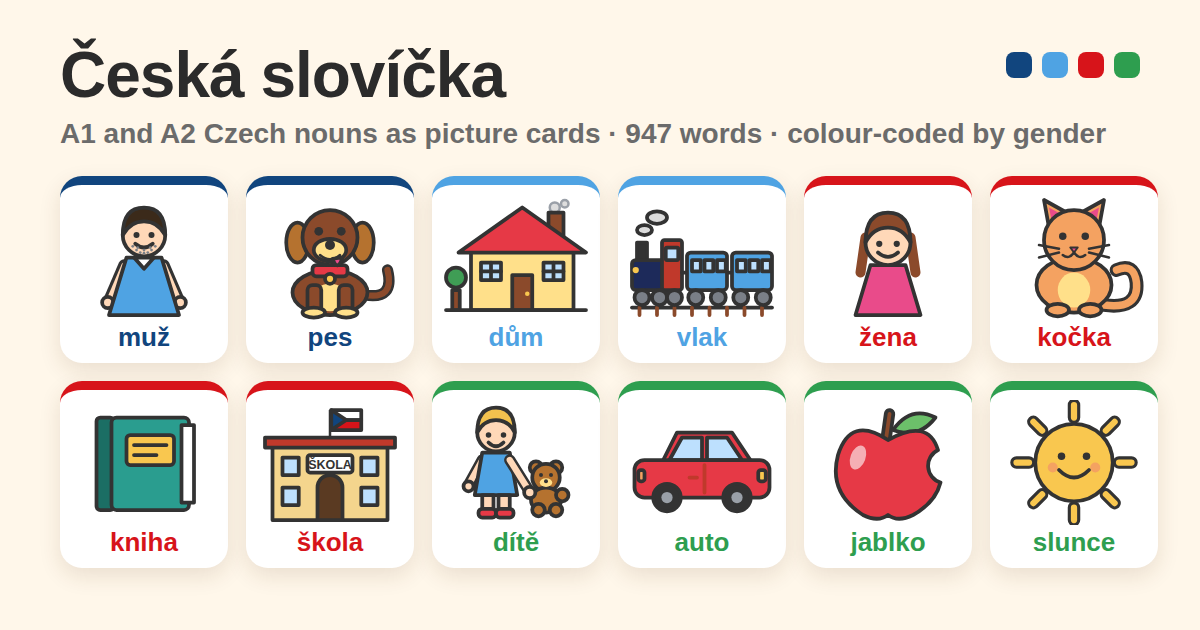
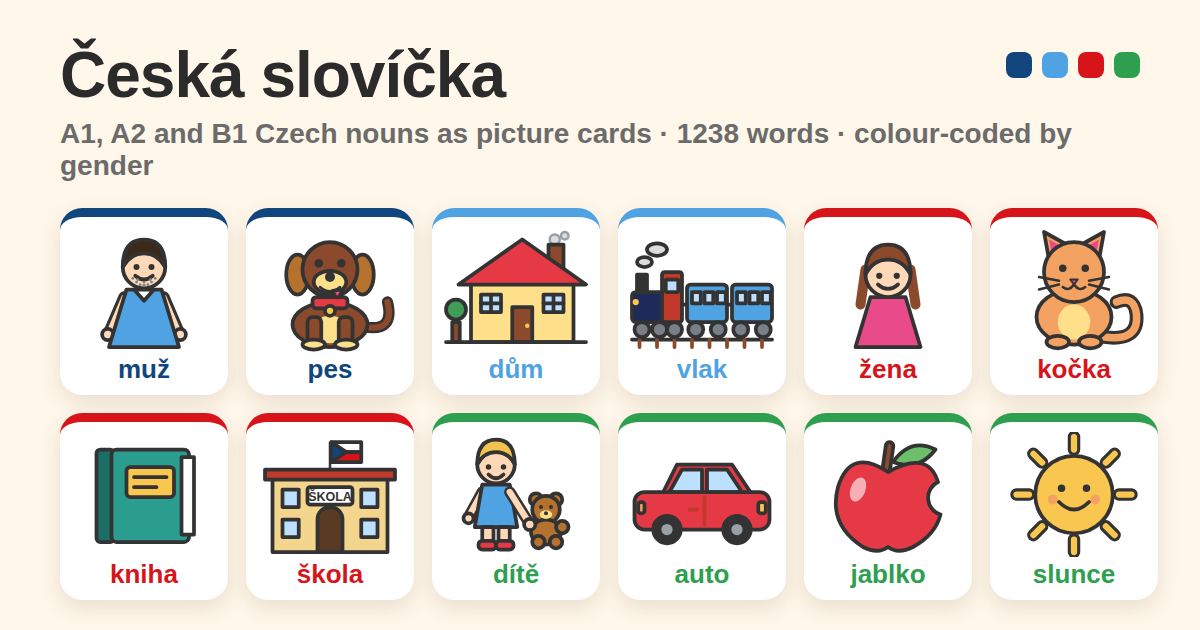
Link the B1 decks in behind the level filter
Adds a B1 pill next to A1, A2 and Vše. A1 stays the default; B1 and Vše
load the 17 B1 deck files on demand. The preview and descriptions now
count all 1,238 cards across A1, A2 and B1.

diff --git a/index.html b/index.html
@@ -4,7 +4,7 @@
 <meta charset="utf-8">
 <meta name="viewport" content="width=device-width, initial-scale=1">
 <title>Česká slovíčka – Czech flash cards</title>
-<meta name="description" content="A1 and A2 Czech nouns as child-friendly picture flash cards, Czech to English, colour-coded by gender (Ma, Mi, F, N).">
+<meta name="description" content="A1, A2 and B1 Czech nouns as child-friendly picture flash cards, Czech to English, colour-coded by gender (Ma, Mi, F, N).">
 <link rel="canonical" href="https://grammar.ilearnczech.com/nouns/">
 <link rel="icon" href="favicon.svg" type="image/svg+xml">
 <meta name="theme-color" content="#fff7ea">
@@ -13,14 +13,14 @@
 <meta property="og:locale" content="en">
 <meta property="og:url" content="https://grammar.ilearnczech.com/nouns/">
 <meta property="og:title" content="Česká slovíčka – Czech noun flash cards">
-<meta property="og:description" content="A1 and A2 Czech nouns as child-friendly picture flash cards, Czech to English, colour-coded by gender (Ma, Mi, F, N).">
+<meta property="og:description" content="A1, A2 and B1 Czech nouns as child-friendly picture flash cards, Czech to English, colour-coded by gender (Ma, Mi, F, N).">
 <meta property="og:image" content="https://grammar.ilearnczech.com/nouns/og.png">
 <meta property="og:image:width" content="1200">
 <meta property="og:image:height" content="630">
 <meta property="og:image:alt" content="Twelve Czech picture cards: muž, pes, dům, vlak, žena, kočka, kniha, škola, dítě, auto, jablko, slunce">
 <meta name="twitter:card" content="summary_large_image">
 <meta name="twitter:title" content="Česká slovíčka – Czech noun flash cards">
-<meta name="twitter:description" content="A1 and A2 Czech nouns as child-friendly picture flash cards, colour-coded by gender.">
+<meta name="twitter:description" content="A1, A2 and B1 Czech nouns as child-friendly picture flash cards, colour-coded by gender.">
 <meta name="twitter:image" content="https://grammar.ilearnczech.com/nouns/og.png">
 <style>
   :root {
@@ -169,6 +169,7 @@
     <span class="levels" role="group" aria-label="Level" id="levels">
       <button data-level="a1" aria-pressed="true">A1</button>
       <button data-level="a2" aria-pressed="false">A2</button>
+      <button data-level="b1" aria-pressed="false">B1</button>
       <button data-level="all" aria-pressed="false">Vše</button>
     </span>
     <button data-gender="all" aria-pressed="true">Vše</button>
@@ -186,7 +187,7 @@
 </header>
 <main id="deck"></main>
 <footer>
-  <span id="count"></span> nouns for A1 and A2 Czech &middot; colours follow the textbook convention (Ma dark blue, Mi light blue, F red, N green) &middot; pictures are inline SVG.<br>
+  <span id="count"></span> nouns for A1, A2 and B1 Czech &middot; colours follow the textbook convention (Ma dark blue, Mi light blue, F red, N green) &middot; pictures are inline SVG.<br>
   Part of the <a href="https://ilearnczech.com">iLearnCzech</a> family &middot; <a href="https://grammar.ilearnczech.com">Grammar reference</a> &middot; <a href="https://github.com/czech-grammar/nouns">GitHub</a>
 </footer>
 
@@ -265,25 +266,33 @@
   // e.g. ?gender=f&mode=hide-en#t-food
   const MODES = ['both', 'hide-en', 'hide-cs'];
   const GENDERS = ['all', 'ma', 'mi', 'f', 'n'];
-  const LEVELS = ['a1', 'a2', 'all'];
+  const LEVELS = ['a1', 'a2', 'b1', 'all'];
   const params = new URLSearchParams(location.search);
   let mode = MODES.includes(params.get('mode')) ? params.get('mode') : 'both';
   let gender = GENDERS.includes(params.get('gender')) ? params.get('gender') : 'all';
   let level = LEVELS.includes(params.get('level')) ? params.get('level') : 'a1';
 
-  // The A2 decks are loaded only when first needed, so the default A1 view stays light.
-  const A2_FILES = ["f-body", "f-clothes", "f-family-a", "f-family-b", "f-food", "f-home", "f-leisure", "f-nature", "f-school-a", "f-school-b", "f-shopping", "f-town", "m-clothes", "m-family-a", "m-home-a", "m-home-b", "m-leisure-people", "m-nature", "m-other", "m-people", "m-school", "m-town", "m-travel-body", "n-home", "n-leisure", "n-travel"];
-  let a2Loaded = false, a2Loading = null;
-  function loadA2() {
-    if (a2Loaded) return Promise.resolve();
-    if (a2Loading) return a2Loading;
-    a2Loading = Promise.all(A2_FILES.map(f => new Promise((ok, fail) => {
+  // Extra levels are loaded only when first needed, so the default A1 view stays light.
+  const EXTRA_FILES = {
+    a2: ["f-body", "f-clothes", "f-family-a", "f-family-b", "f-food", "f-home", "f-leisure", "f-nature", "f-school-a", "f-school-b", "f-shopping", "f-town", "m-clothes", "m-family-a", "m-home-a", "m-home-b", "m-leisure-people", "m-nature", "m-other", "m-people", "m-school", "m-town", "m-travel-body", "n-home", "n-leisure", "n-travel"],
+    b1: ["f-body", "f-home", "f-leisure", "f-nature", "f-school", "f-town", "m-body", "m-home", "m-leisure", "m-nature", "m-people", "m-school", "m-sport", "m-town", "n-body", "n-home", "n-leisure"],
+  };
+  const loaded = {}, loading = {};
+  function loadLevel(lv) {
+    if (loaded[lv]) return Promise.resolve();
+    if (loading[lv]) return loading[lv];
+    loading[lv] = Promise.all(EXTRA_FILES[lv].map(f => new Promise((ok, fail) => {
       const el = document.createElement('script');
-      el.src = 'words/a2/' + f + '.js';
+      el.src = 'words/' + lv + '/' + f + '.js';
       el.onload = ok; el.onerror = () => fail(f);
       document.head.appendChild(el);
-    }))).then(() => { a2Loaded = true; order = WORDS.map((_, i) => i).sort(byGender); });
-    return a2Loading;
+    }))).then(() => { loaded[lv] = true; order = WORDS.map((_, i) => i).sort(byGender); });
+    return loading[lv];
+  }
+  function loadFor(lv) {
+    if (lv === 'a1') return Promise.resolve();
+    if (lv === 'all') return Promise.all(Object.keys(EXTRA_FILES).map(loadLevel));
+    return loadLevel(lv);
   }
 
   function syncUrl() {
@@ -355,7 +364,7 @@
       level = l;
       document.querySelectorAll('#levels button').forEach(b => b.setAttribute('aria-pressed', String(b === btn)));
       syncUrl();
-      (level === 'a1' ? Promise.resolve() : loadA2()).then(render);
+      loadFor(level).then(render);
     });
   });
 
@@ -472,7 +481,7 @@
     render();
   });
 
-  (level === 'a1' ? Promise.resolve() : loadA2()).then(() => {
+  loadFor(level).then(() => {
     render();
     if (location.hash) {
       const target = document.querySelector(location.hash);

diff --git a/tools/og.py b/tools/og.py
@@ -22,7 +22,7 @@ page = f'''<!doctype html><meta charset="utf-8"><style>
   svg{{width:150px;height:125px;display:block;margin:0 auto}} b{{display:block;font-size:26px;color:var(--g);margin-top:2px}}
   .dots{{position:absolute;right:60px;top:52px;display:flex;gap:10px}} .dots span{{width:26px;height:26px;border-radius:8px;display:block}}
 </style>
-<div class="head"><h1>Česká slovíčka</h1><p>A1 and A2 Czech nouns as picture cards &middot; {len(by)} words &middot; colour-coded by gender</p></div>
+<div class="head"><h1>Česká slovíčka</h1><p>A1, A2 and B1 Czech nouns as picture cards &middot; {len(by)} words &middot; colour-coded by gender</p></div>
 <div class="dots"><span style="background:#11457e"></span><span style="background:#4fa3e3"></span><span style="background:#d7141a"></span><span style="background:#2e9e4f"></span></div>
 <div class="g">{cards}</div>'''
 hp = os.path.join(OUT, 'og.html'); open(hp, 'w', encoding='utf8').write(page)

diff --git a/README.md b/README.md
@@ -2,10 +2,10 @@
 
 Picture flash cards for A1 Czech nouns, Czech → English, one child-friendly
 inline SVG per word, colour-coded by gender (F red, Ma dark blue, Mi light
-blue, N green, the Czech Step by Step convention). All four genders are covered for A1 and A2. No build step; open `index.html`.
+blue, N green, the Czech Step by Step convention). All four genders are covered for A1 and A2, plus the picturable B1 core. No build step; open `index.html`.
 
-- `index.html` – the page: cards grouped by topic, level filter (A1 default, A2, both;
-  the A2 decks load on demand), gender filter (Ma, Mi, F, N),
+- `index.html` – the page: cards grouped by topic, level filter (A1 default, A2, B1, all;
+  the A2 and B1 decks load on demand), gender filter (Ma, Mi, F, N),
   show/hide Czech or English, tap a card to reveal; cards with an irregular declension (plural-only,
   adjective-declined, indeclinable, irregular, or an odd plural) have a yellow tint,
   cards on a regular pattern with a stem change (dům, domu) a fainter cream, and all
@@ -29,7 +29,7 @@ blue, N green, the Czech Step by Step convention). All four genders are covered 
   `check-candidates.py`. `b1-masculine.md`, `b1-feminine.md`, `b1-neuter.md` sort ranks 1–4000 into
   picturable, abstract and left-out, with English and pattern. All three picturable sets are drawn
   in `words/b1/` (142 masculine, 103 feminine, 46 neuter) and exported to
-  `words-b1.json`; the page does not load B1 yet.
+  `words-b1.json`; the page loads them when B1 or Vše is chosen.
 - `STYLE.md` – drawing rules and palette for new pictures.
 - `declension.json` – a declension table (7 cases, singular and plural) for every
   card plus the 14 model words; 891 from the Czech Wiktionary (CC BY-SA, fetched by
